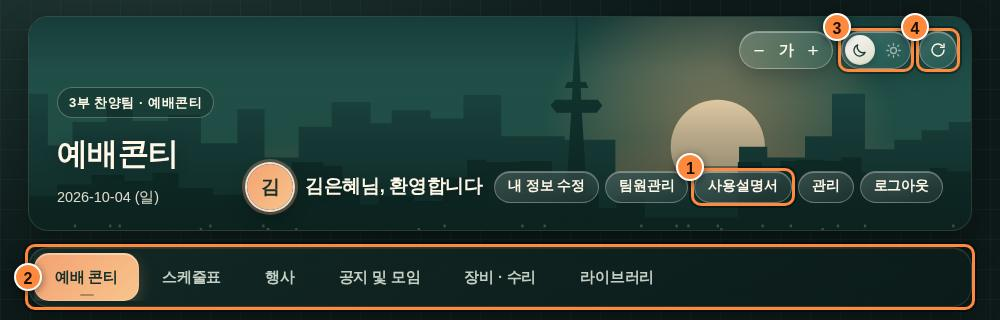
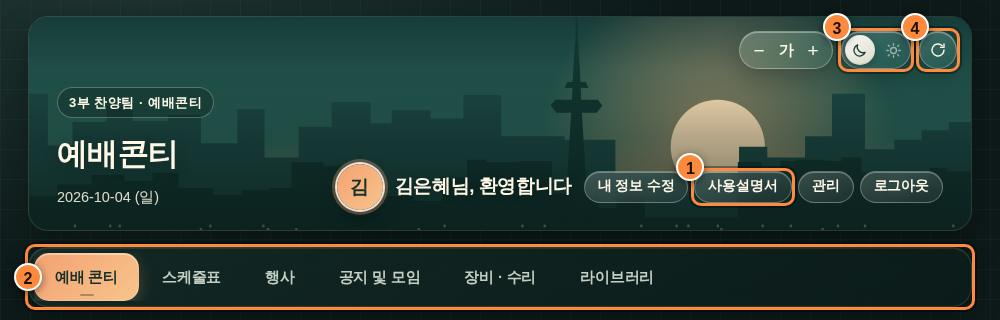
팀원관리를 관리 메뉴로 합침 — 관리자만 보임 (관리 안에 팀원관리 · 설정 두 칸), 사용설명서 갱신
Claude-Session: https://claude.ai/code/session_01WLWLx1gky7YQ44VpLtfgQk

Changed region(s): [[0.217, 0.5, 0.682, 0.6875]]

diff --git a/routes/guide.js b/routes/guide.js
@@ -33,11 +33,11 @@ const SECTIONS = [
     ${fig('login', '로그인 화면', ['<b>Google로 로그인</b> — 이 버튼 하나로 시작해요.'])}
     ${warn('이름 한 글자만 달라도(띄어쓰기 포함) 가입이 막혀요. 가입 화면 아래 빨간 글씨로 이유가 나와요.')}
     <h3>객원 멤버로 가입하기</h3>
-    <p>팀원이 아닌데 가끔 서는 분은 가입할 때 <b>객원 멤버로 가입</b>에 체크하세요. 명단에 없어도 가입할 수 있고, <b>내가 스케줄에 서는 날</b>의 콘티 · 라이브 악보 · 필기 · 댓글과 공지만 볼 수 있어요. (행사 · 장비 · 라이브러리 · 팀원관리 메뉴는 보이지 않아요.)</p>`)],
+    <p>팀원이 아닌데 가끔 서는 분은 가입할 때 <b>객원 멤버로 가입</b>에 체크하세요. 명단에 없어도 가입할 수 있고, <b>내가 스케줄에 서는 날</b>의 콘티 · 라이브 악보 · 필기 · 댓글과 공지만 볼 수 있어요. (행사 · 장비 · 라이브러리 메뉴는 보이지 않아요.)</p>`)],
 
   ['menu', '화면 둘러보기', sec('menu', 2, '화면 둘러보기', '맨 위 배너와 메뉴는 모든 화면에서 똑같이 있어요.', `
     ${fig('menu', '맨 위 배너와 메뉴', [
-      '<b>사용설명서</b> — 지금 보고 있는 이 안내서예요. 옆에 <b>내 정보 수정</b> · <b>팀원관리</b> · <b>관리</b>(관리자만) · <b>로그아웃</b>이 있어요.',
+      '<b>사용설명서</b> — 지금 보고 있는 이 안내서예요. 옆에 <b>내 정보 수정</b> · <b>관리</b>(관리자만, 팀원관리 포함) · <b>로그아웃</b>이 있어요.',
       '<b>메뉴</b> — 예배 콘티 · 스케줄표 · 행사 · 공지 및 모임 · 장비·수리 · 라이브러리. 누르면 페이지를 새로 열지 않고 바로 바뀌어요.',
       '<b>화면 모드</b> — 어두운 화면 / 밝은 화면 전환. 글자 크기(− 가 +)도 여기서 키우고 줄여요.',
       '<b>새로고침</b> — 화면이 이상하면 한 번 눌러 보세요.'])}
@@ -157,14 +157,15 @@ const SECTIONS = [
     </ul>
     ${tip('새 콘티를 짤 때는 처음부터 입력하지 말고 라이브러리에서 곡을 체크해서 넣으면 키 · BPM · 송폼 · 악보가 같이 와요.')}`, '객원 멤버는 안 보여요')],
 
-  ['roster', '팀원관리 · 관리자', sec('roster', 10, '팀원관리와 관리자 기능', '관리자만 쓰는 기능이에요. 일반 팀원은 명단을 보기만 해요.', `
-    ${fig('roster', '팀원관리 화면', [
+  ['roster', '관리 (관리자)', sec('roster', 10, '관리 — 팀원관리와 설정', '관리자에게만 보이는 메뉴예요. 배너의 <b>관리</b>를 누르면 <b>팀원관리</b>와 <b>설정 · 방송팀 링크</b> 두 칸이 한 곳에 있어요.', `
+    ${fig('roster', '관리 — 팀원관리 화면', [
+      '<b>팀원관리 / 설정 · 방송팀 링크</b> — 관리 안의 두 칸이에요. 눌러서 오가요.',
       '<b>+ 팀원 추가 (명단에 미리 등록)</b> — 새 팀원의 이름 · 성별 · 역할을 먼저 적어 둬요. 이 사람이 가입할 때 이름이 같으면 통과돼요.',
-      '<b>팀원 목록</b> — 사진 · 이름 · 역할이 보여요. <b>가입</b> 표시는 이미 가입한 사람, <b>대기</b>는 아직 가입 전이에요. 연필 아이콘으로 수정해요. (객원 멤버는 아래 칸에서 따로 관리)'])}
+      '<b>팀원 목록</b> — 사진 · 이름 · 역할이 보여요. <b>가입</b>은 이미 가입한 사람, <b>대기</b>는 아직 가입 전이에요. 연필 아이콘으로 수정해요. (객원 멤버는 아래 칸에서 따로 관리)'])}
     ${fig('admin', '관리 화면', [])}
     <h3>방송팀 보기 링크 만들기</h3>
     <ol class="gd-steps">
-      <li>맨 위 배너의 <b>관리</b>를 눌러요. (콘티 화면에서도 만들 수 있어요)</li>
+      <li>맨 위 배너의 <b>관리</b> → <b>설정 · 방송팀 링크</b>를 눌러요. (콘티 화면에서도 만들 수 있어요)</li>
       <li><b>방송팀 보기 링크</b> 카드에서 찬양팀을 골라 <b>링크 만들기</b>를 눌러요.</li>
       <li>생긴 링크를 <b>복사</b>해서 방송팀에게 보내요.</li>
     </ol>
@@ -186,7 +187,7 @@ const SECTIONS = [
     <details class="gd-q"><summary>메트로놈 BPM이 안 바뀌어요</summary><p>다른 사람이 <b>클릭 컨트롤</b>을 맡고 있으면 내 조작이 막혀요. <b>함께</b> 탭에서 클릭 컨트롤을 넘겨받거나 따라가기를 끄세요.</p></details>
     <details class="gd-q"><summary>인터넷이 느린 교회에서 쓰려면?</summary><p>콘티 화면의 <b>오프라인용 다운로드</b>로 미리 저장해 두세요.</p></details>
     <details class="gd-q"><summary>화면이 이상해요 / 옛날 화면이에요</summary><p>배너 오른쪽 위 <b>새로고침</b> 버튼을 누르거나 페이지를 다시 열어 보세요.</p></details>
-    <details class="gd-q"><summary>못 보는 메뉴가 있어요</summary><p>객원 멤버에게는 행사 · 장비 · 라이브러리 · 팀원관리가 보이지 않아요. 정식 팀원인데 안 보이면 관리자에게 문의하세요.</p></details>`)],
+    <details class="gd-q"><summary>못 보는 메뉴가 있어요</summary><p>객원 멤버에게는 행사 · 장비 · 라이브러리가 보이지 않아요. 정식 팀원인데 안 보이면 관리자에게 문의하세요.</p></details>`)],
 ];
 
 router.get('/guide', async (req, res) => {

diff --git a/routes/conti.js b/routes/conti.js
@@ -119,7 +119,7 @@ async function weekAssignments(team, scope) {
   return { byPos, roster, infoMap };
 }
 
-async function lineupCard(team, scope, byPos, roster, infoMap, eventName) {
+async function lineupCard(team, scope, byPos, roster, infoMap, eventName, isAdmin) {
   // 스케줄표의 "카드" 보기와 같은 모양 — 머리(날짜) + 3칸 격자 한 장. 칸을 누르면 그 칸이 한 줄 전체로 펼쳐져 배정 · 해제 (스케줄표 카드보다 글씨 · 사진을 조금 크게)
   const keys = ALL_POSITIONS.slice();
   const cells = keys.map((k) => lineupCell(scope, team, k, byPos[k] || [], roster, infoMap)).join('')
@@ -133,7 +133,7 @@ async function lineupCard(team, scope, byPos, roster, infoMap, eventName) {
       <div class="lu-head">${head}<span class="lu-hint">칸을 누르면 바로 배정해요</span></div>
       <div class="lu-grid">${cells}</div>
     </div>
-    <p class="ph-sub" style="margin-top:10px;"><a href="/roster?team=${encodeURIComponent(team)}">팀원관리 →</a>${scope.event ? '' : ` · <a href="/schedule?team=${encodeURIComponent(team)}">스케줄표에서 여러 주 한눈에 보기 →</a>`}</p>
+    <p class="ph-sub" style="margin-top:10px;">${isAdmin ? `<a href="/roster?team=${encodeURIComponent(team)}">팀원관리 →</a>` : ''}${scope.event ? '' : `${isAdmin ? ' · ' : ''}<a href="/schedule?team=${encodeURIComponent(team)}">스케줄표에서 여러 주 한눈에 보기 →</a>`}</p>
   </div>`;
 }
 
@@ -622,7 +622,7 @@ router.get('/conti', requireTeam, async (req, res) => {
     ? { eyebrow: `${team} · 행사 콘티`, title: eventRow['이름'], sub: week.labelKo(date) }
     : { eyebrow: `${team} · 예배콘티`, title: '예배콘티', sub: week.labelKo(date) });
   const { byPos, roster, infoMap } = await weekAssignments(team, scope);
-  const lineup = await lineupCard(team, scope, byPos, roster, infoMap, scope.event ? eventRow['이름'] : '');
+  const lineup = await lineupCard(team, scope, byPos, roster, infoMap, scope.event ? eventRow['이름'] : '', ctx.isAdmin);
   const pinfo = await practiceInfo(team, scope, date);
   const practice = practiceCard(team, pinfo);
   const hist = await historyFor(team, scope);

diff --git a/lib/pageShell.js b/lib/pageShell.js
@@ -129,7 +129,7 @@ function heroWho(who) {
   return `<div class="ph-hero-who">
         <span class="ph-who-av">${face}</span>
         <span class="ph-who-hi">${who.pastor ? `<b>${esc(who.name)} 목사님</b>, 환영합니다` : `<b>${esc(who.name)}</b>님, 환영합니다`}</span>
-        <span class="ph-who-links"><a href="/profile">내 정보 수정</a>${who.guest ? '' : `<a href="/roster${who.team ? '?team=' + encodeURIComponent(who.team) : ''}">팀원관리</a>`}<a href="/guide" class="ph-who-guide">사용설명서</a>${who.isAdmin ? '<a href="/admin">관리</a>' : ''}<a href="/logout">로그아웃</a></span>
+        <span class="ph-who-links"><a href="/profile">내 정보 수정</a><a href="/guide" class="ph-who-guide">사용설명서</a>${who.isAdmin ? `<a href="/roster${who.team ? '?team=' + encodeURIComponent(who.team) : ''}" class="ph-who-admin">관리</a>` : ''}<a href="/logout">로그아웃</a></span>
       </div>`;
 }
 function decorate(content, who) {
@@ -246,4 +246,9 @@ ${opts.scripts || ''}
 </html>`;
 }
 
-module.exports = { render, esc, hero, hubNav, weekStrip, decorate, assetVersion };
+/** 관리자 전용 — 팀원관리 · 설정을 한 "관리" 안의 두 칸으로 */
+function adminTabs(active, team) {
+  const q = team ? `?team=${encodeURIComponent(team)}` : '';
+  return `<div class="ph-card ph-admintabs"><a class="ph-btn${active === 'roster' ? ' pri' : ''}" href="/roster${q}">팀원관리</a><a class="ph-btn${active === 'admin' ? ' pri' : ''}" href="/admin">설정 · 방송팀 링크</a><a class="ph-btn" href="/">← 허브로</a></div>`;
+}
+module.exports = { adminTabs, render, esc, hero, hubNav, weekStrip, decorate, assetVersion };

diff --git a/routes/roster.js b/routes/roster.js
@@ -125,6 +125,7 @@ function personRow(name, info, isAdmin) {
 
 router.get('/roster', requireTeam, async (req, res) => {
   const ctx = req.ctx;
+  if (!ctx.isAdmin) return res.redirect('/');   // 팀원관리는 관리자만
   const team = ctx.current;
   const infoMap = await avatar.teamInfoMap(team);
   const rosterCount = Object.values(infoMap).filter((i) => i.명단행).length;
@@ -154,6 +155,7 @@ router.get('/roster', requireTeam, async (req, res) => {
   const content = `
   ${pageShell.hubNav('roster', team)}
   ${hero}
+  ${pageShell.adminTabs('roster', team)}
   <div class="ph-card">
     ${teamContext.teamSwitcher(ctx, {})}
     <p class="ph-sub" style="margin:0 0 ${ctx.isAdmin ? '4px' : '0'};">회원가입 때 적은 이름이 이 명단과 같아야 가입이 돼요${rosterCount ? '' : ' (이 팀은 아직 명단이 없어서 지금은 누구나 가입할 수 있어요)'}.</p>

diff --git a/routes/admin.js b/routes/admin.js
@@ -75,7 +75,7 @@ router.get('/admin', requireAdmin, async (req, res) => {
   const content = `
   ${pageShell.hubNav('', '')}
   ${hero}
-  <div class="ph-card"><a class="ph-btn" href="/">← 허브로</a></div>
+  ${pageShell.adminTabs('admin', '')}
 
   <div class="ph-card top-accent">
     <h2 class="ph-h2">허브 바닥글 태그라인</h2>

diff --git a/public/css/app.css b/public/css/app.css
@@ -1167,3 +1167,5 @@ a { color: var(--accent-ink); text-decoration: none; }
   .gd-toc { position: static; }
   .gd-toc ol { grid-template-columns: repeat(2, minmax(0, 1fr)); }
 }
+.ph-admintabs { display: flex; gap: 8px; flex-wrap: wrap; padding: 12px; }
+.ph-admintabs .ph-btn { flex: 1 1 140px; width: auto; text-align: center; }
